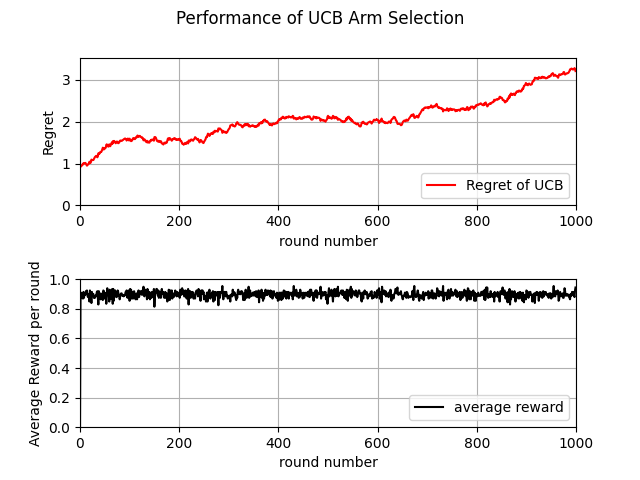
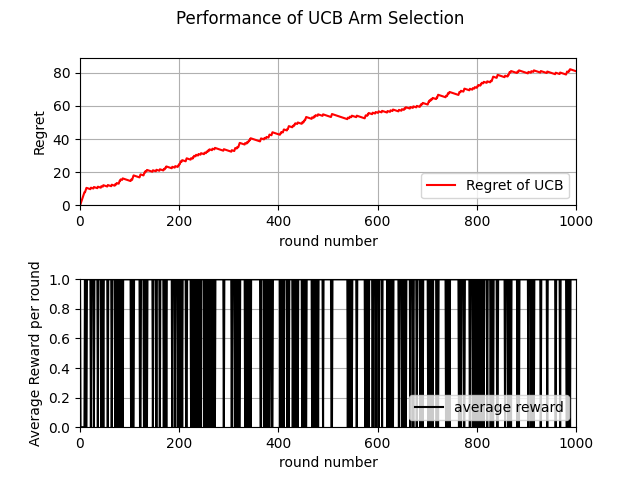
Fixed UCB regret bug

diff --git a/double_loop.py b/double_loop.py
@@ -26,6 +26,7 @@ def plot_regret(X, Y, cumulative_optimal_reward, cumulative_reward, average_rewa
   fig, axs = plt.subplots(2)  # get two figures, top is regret, bottom is average reward in each round
   fig.suptitle('Performance of UCB Arm Selection')
   fig.subplots_adjust(hspace=0.5)
+
   axs[0].plot(X, Y, color='red', label='Regret of UCB')
   axs[0].set(xlabel='round number', ylabel='Regret')
   axs[0].grid(True)
@@ -33,6 +34,7 @@ def plot_regret(X, Y, cumulative_optimal_reward, cumulative_reward, average_rewa
   axs[0].set_xlim(0, T)
   axs[0].set_ylim(0, 1.1*(cumulative_optimal_reward - cumulative_reward))
   axs[1].plot(X, average_reward_in_each_round, color='black', label='average reward')
+
   axs[1].set(xlabel='round number', ylabel='Average Reward per round')
   axs[1].grid(True)
   axs[1].legend(loc='lower right')
@@ -103,7 +105,7 @@ def main():
 
   arm1 = BernoulliArm(0.2)
   arm2 = BernoulliArm(0.3)
-  arm3 = BernoulliArm(0.85)
+  arm3 = BernoulliArm(0.2)
   arm4 = BernoulliArm(0.9)
   arms = [arm1, arm2, arm3, arm4]
   max_mu = max([arm.mu for arm in arms])
@@ -118,35 +120,39 @@ def main():
   algo_anneal_softmax = AnnealingSoftmax(n_arms)
   algo_exp3 = Exp3(.2, n_arms)
 
-  algorithms = [algo_ucb1]
+  algorithms = [algo_anneal_epsilon]
   algorithm_rewards = []  # 2D list[algo][t] (array of running avg. rewards for each algo at time-step t)
   algorithm_cum_rewards = []  # 2D list[algo][t] (array of cumulative rewards for each algo at time-step t)
   algorithm_arm_selections = []  # 2D list[algo][t] (array of arm selections for each algo at time-step t)
 
   # semi-global variables
   timesteps = 1000  # number of time-steps (T)
-  total_iteration = 200  # outer-loop
+  total_iteration = 10  # outer-loop
   reward_round_iteration = np.zeros((timesteps), dtype=int)
 
   for algo in algorithms:
     avg_rewards, cum_rewards, arm_selections = [0], [0], []
+    new_avg = 0
 
     for i in range(total_iteration):
-      for t in range(1, timesteps):
+      algo = AnnealingEpsilonGreedy(n_arms)  # reinitialize algorithm (clear previous memory)
+      for t in range(timesteps):  # NOTE: 0 based? 1 based?
         chosen_arm = algo.select_arm()
         arm_selections.append(chosen_arm + 1)  # convert 0-based index to 1-based
         reward = arms[chosen_arm].draw_reward()
         reward_round_iteration[t] += reward  # This persists over total_iterations
-        new_avg = (avg_rewards[-1]*(t - 1) + reward)/t  # new running avg.
+        if t != 0:
+          new_avg = (avg_rewards[-1]*(t - 1) + reward)/t  # new running avg.
         avg_rewards.append(new_avg)
-        cum_rewards.append(new_avg*t)
+        cum_rewards.append(new_avg*t)  # [1,1,0,1,1] [1,2,2,3,?], cur_avg=0.75, new_avg = 0.8
         algo.update(chosen_arm, reward)
-      algorithm_rewards.append(avg_rewards)
-      algorithm_cum_rewards.append(cum_rewards)
-      algorithm_arm_selections.append(arm_selections)
 
       # Resetting variable
       arm_selections = []
+
+    algorithm_rewards.append(avg_rewards)
+    algorithm_cum_rewards.append(cum_rewards)
+    algorithm_arm_selections.append(arm_selections)
 
     # Compute average rewards for each iteration
     average_reward_in_each_round = np.zeros(timesteps, dtype=float)
@@ -161,10 +167,13 @@ def main():
     x_axis = np.zeros(timesteps, dtype=int)
     regrets = np.zeros(timesteps, dtype=float)  # regret for each round
 
+    print(average_reward_in_each_round)
+
     for t in range(timesteps):
       x_axis[t] = t
       cumulative_optimal_reward += max_mu
       cumulative_reward += average_reward_in_each_round[t]
+      # print(f"{cumulative_optimal_reward} \t {cumulative_reward}")
       regrets[t] = cumulative_optimal_reward - cumulative_reward
 
     plot_regret(x_axis, regrets, cumulative_optimal_reward, cumulative_reward, average_reward_in_each_round, timesteps)
@@ -174,9 +183,9 @@ def main():
   for i in range(len(algorithms)):
     print(f"{algorithms[i].get_name()}: {algorithm_cum_rewards[i][-1]:.2f}")
 
-  plot_graph(timesteps, arms, algorithms, algorithm_rewards, algorithm_cum_rewards, algorithm_arm_selections, max_mu,
-             max_cum_reward)
-  plot_cum_rewards(algorithms, algorithm_cum_rewards, timesteps, max_cum_reward)
+  # plot_graph(timesteps, arms, algorithms, algorithm_rewards, algorithm_cum_rewards, algorithm_arm_selections, max_mu,
+  #            max_cum_reward)
+  # plot_cum_rewards(algorithms, algorithm_cum_rewards, timesteps, max_cum_reward)
 
 
 if __name__ == "__main__":

diff --git a/algorithms/john_code/prog4_UCB.py b/algorithms/john_code/prog4_UCB.py
@@ -11,11 +11,11 @@ import matplotlib.pyplot as plt
 Num_of_Arms = 4  # number of arms
 
 #  input parameters
-winning_parameters = np.array([0.2, 0.3, 0.85, 0.9], dtype=float)
+winning_parameters = np.array([0.2, 0.3, 0.2, 0.9], dtype=float)
 max_prob = 0.9  # record the highest probability of winning for all arms
 optimal_arm = 3  # index for the optimal arm
 T = 1000  # number of rounds to simulate
-total_iteration = 200  # number of iterations to the MAB simulation
+total_iteration = 10  # number of iterations to the MAB simulation
 
 reward_round_iteration = np.zeros((T), dtype=int)  # reward in each round average by # of iteration
 
@@ -34,7 +34,7 @@ for iteration_count in range(total_iteration):
 
     # generate reward and update the variables
     current_reward = bernoulli.rvs(winning_parameters[select_arm])
-    num_selected[select_arm] += 1
+    num_selected[select_arm] += 1  # how many times each arm has been selected (equiv. to our self.counts)
     cumulative_reward[select_arm] += float(current_reward)
     # compute UCB estimate. Note that we need to do log(round +1) because round starts with 0
     estimated_reward[select_arm]  = cumulative_reward[select_arm]/float(num_selected[select_arm]) +  \
@@ -42,7 +42,7 @@ for iteration_count in range(total_iteration):
 
     reward_round_iteration[round] += current_reward
 
-  # after one iteratoin, need to reset variables
+  # after one iteration, need to reset variables
   num_selected = np.zeros((Num_of_Arms), dtype=int)
   cumulative_reward = np.zeros((Num_of_Arms), dtype=float)
   estimated_reward = np.zeros((Num_of_Arms), dtype=float)
@@ -62,30 +62,36 @@ cumulative_reward = 0.0
 
 X = np.zeros(T, dtype=int)
 Y = np.zeros(T, dtype=float)
+
+print(average_reward_in_each_round)
+
 # cumulative reward = (if you have a 0.9 chance of getting one, after 100 rounds is 100*0.9 = 90 )
 for round in range(T):
   X[round] = round
   cumulative_optimal_reward += max_prob
   cumulative_reward += average_reward_in_each_round[round]
+  # print(f"{cumulative_optimal_reward} \t {cumulative_reward}")
   Y[round] = cumulative_optimal_reward - cumulative_reward
 
 #After 200 1000 rounds
 print('After ', T, 'rounds, regret is: ', cumulative_optimal_reward - cumulative_reward)
 
 fig, axs = plt.subplots(2)  # get two figures, top is regret, bottom is average reward in each round
-fig.suptitle('Performance of UCB Arm Selection')
+fig.suptitle('John\'s Performance of UCB Arm Selection')
 fig.subplots_adjust(hspace=0.5)
+
 axs[0].plot(X, Y, color='red', label='Regret of UCB')
 axs[0].set(xlabel='round number', ylabel='Regret')
 axs[0].grid(True)
 axs[0].legend(loc='lower right')
 axs[0].set_xlim(0, T)
 axs[0].set_ylim(0, 1.1*(cumulative_optimal_reward - cumulative_reward))
+
 axs[1].plot(X, average_reward_in_each_round, color='black', label='average reward')
 axs[1].set(xlabel='round number', ylabel='Average Reward per round')
 axs[1].grid(True)
 axs[1].legend(loc='lower right')
 axs[1].set_xlim(0, T)
 axs[1].set_ylim(0, 1.0)
-plt.savefig("prog3_figure.png")
+# plt.savefig("prog3_figure.png")
 plt.show()

diff --git a/algorithms/ucb/ucb1.py b/algorithms/ucb/ucb1.py
@@ -20,11 +20,11 @@ class UCB1():
     for arm in range(n_arms):
       if self.counts[arm] == 0:
         return arm  # need to select every arm at least once before applying UCB1 formula
-    ucb_values = [0.0 for arm in range(n_arms)]
+    # ucb_values = [0.0 for arm in range(n_arms)]
     for arm in range(n_arms):
       confidence_interval = math.sqrt((2*math.log(sum(self.counts)))/float(self.counts[arm]))
-      ucb_values[arm] = self.q_values[arm] + confidence_interval
-    return argmax(ucb_values)
+      self.ucb_values[arm] = self.q_values[arm] + confidence_interval
+    return argmax(self.ucb_values)
 
   def update(self, chosen_arm, latest_reward):
     self.counts[chosen_arm] += 1
